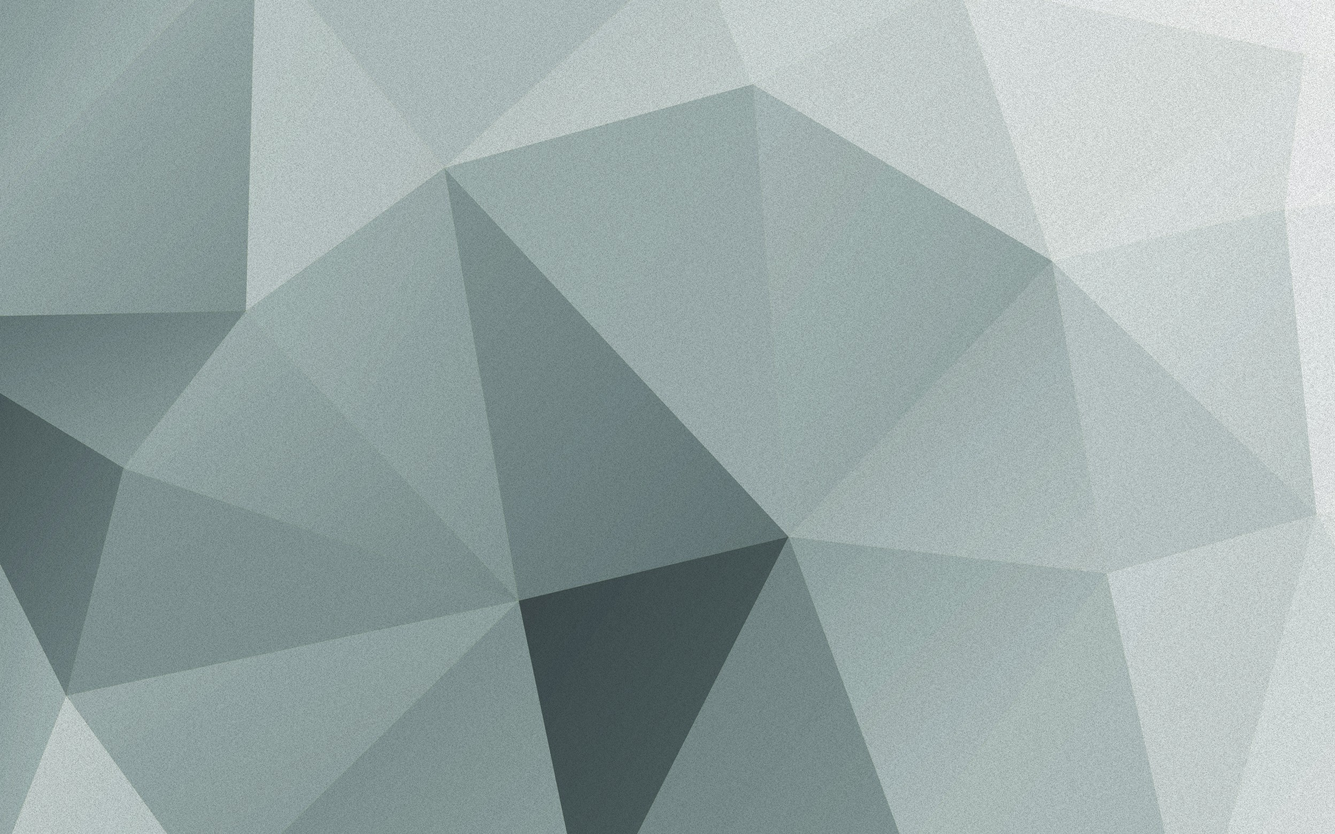
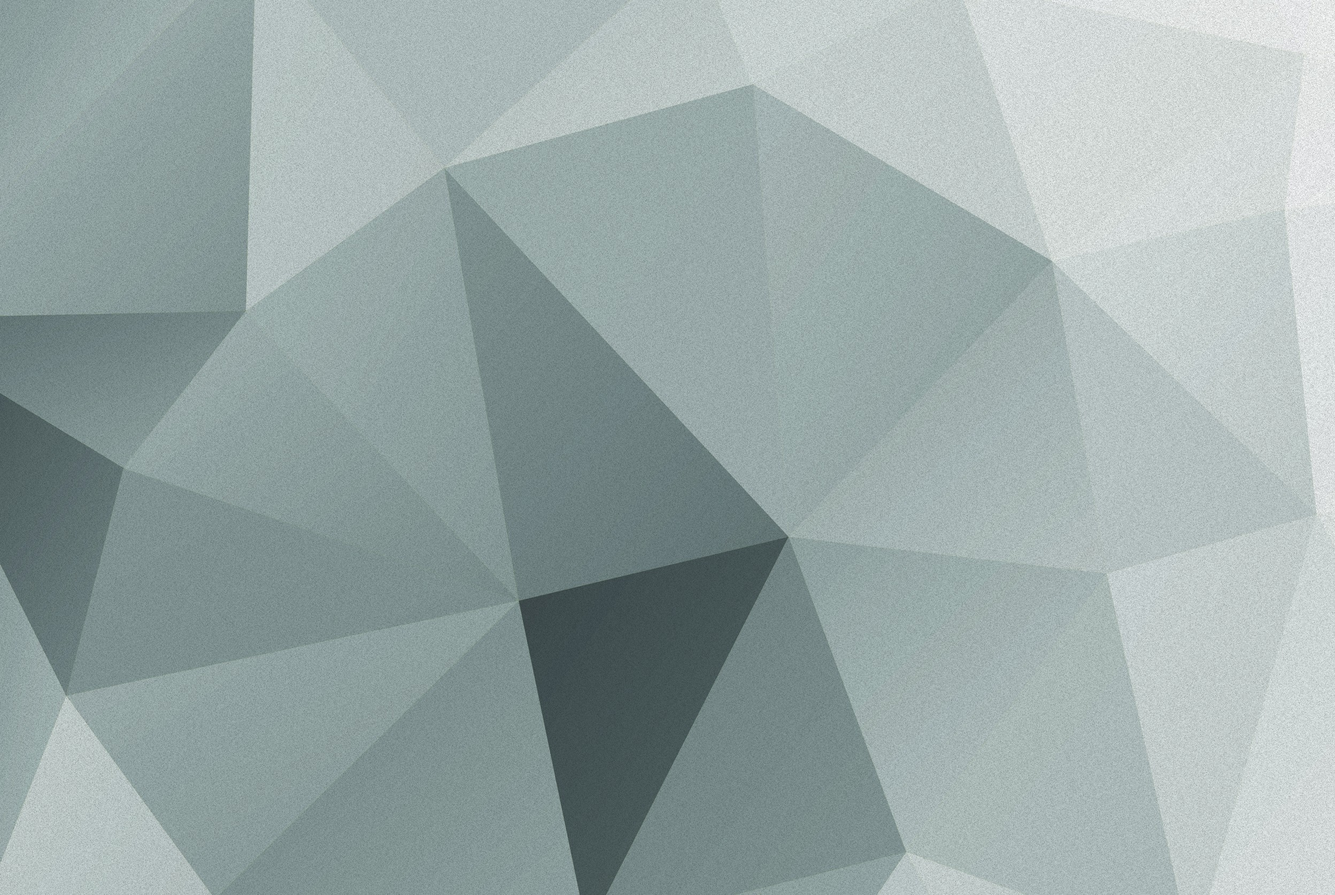
test

diff --git a/js/i68.js b/js/i68.js
@@ -58,20 +58,19 @@ $('.navbar-collapse ul li a').click(function() {
 
 $(window).scroll(function() {
   var scrolledY = $(window).scrollTop();
-  var aboutScrolledY = $(window).scrollTop()-600
-  var clientScrolledY = $(window).scrollTop()-1900;
   var deviceWidth = $(window).width();
-  if(deviceWidth > 1200){
-    scrolledY = $(window).scrollTop()-126;
+  if(deviceWidth > 1000){
+    if(deviceWidth > 1200){
+        scrolledY = $(window).scrollTop()-126;
+    }
+    aboutScrolledY = $(window).scrollTop()-650
+    clientScrolledY = $(window).scrollTop()-1950;
+    $('.about-parallax').css('background-position', 'center ' + ((aboutScrolledY)) + 'px');
+    $('.client-parallax').css('background-position', 'center ' + ((clientScrolledY)) + 'px');
   }
-  else{
-    clientScrolledY = $(window).scrollTop()-1400;
-  }
-
   $('.home-parallax').css('background-position', 'center ' + ((scrolledY)) + 'px');
   $('.services-parallax').css('background-position', 'center ' + ((scrolledY)) + 'px');
   $('.inquire-parallax').css('background-position', 'center ' + ((scrolledY)) + 'px');
   $('.choose-parallax').css('background-position', 'center ' + ((scrolledY)) + 'px');
-  $('.about-parallax').css('background-position', 'center ' + ((aboutScrolledY)) + 'px');
-  $('.client-parallax').css('background-position', 'center ' + ((clientScrolledY)) + 'px');
+
 });

diff --git a/css/i68.css b/css/i68.css
@@ -733,13 +733,11 @@ input[type=number] {
   min-height: 100%;
 }
 .about-parallax{
-  min-height: 480px;
   background-image: url('../img/Parallax/gray.jpg');
   height: auto;
 }
 .client-parallax{
   background-image: url('../img/Parallax/gray.jpg');
-  min-height: 400px;
   height: auto;
 }
 .slider-caption {
